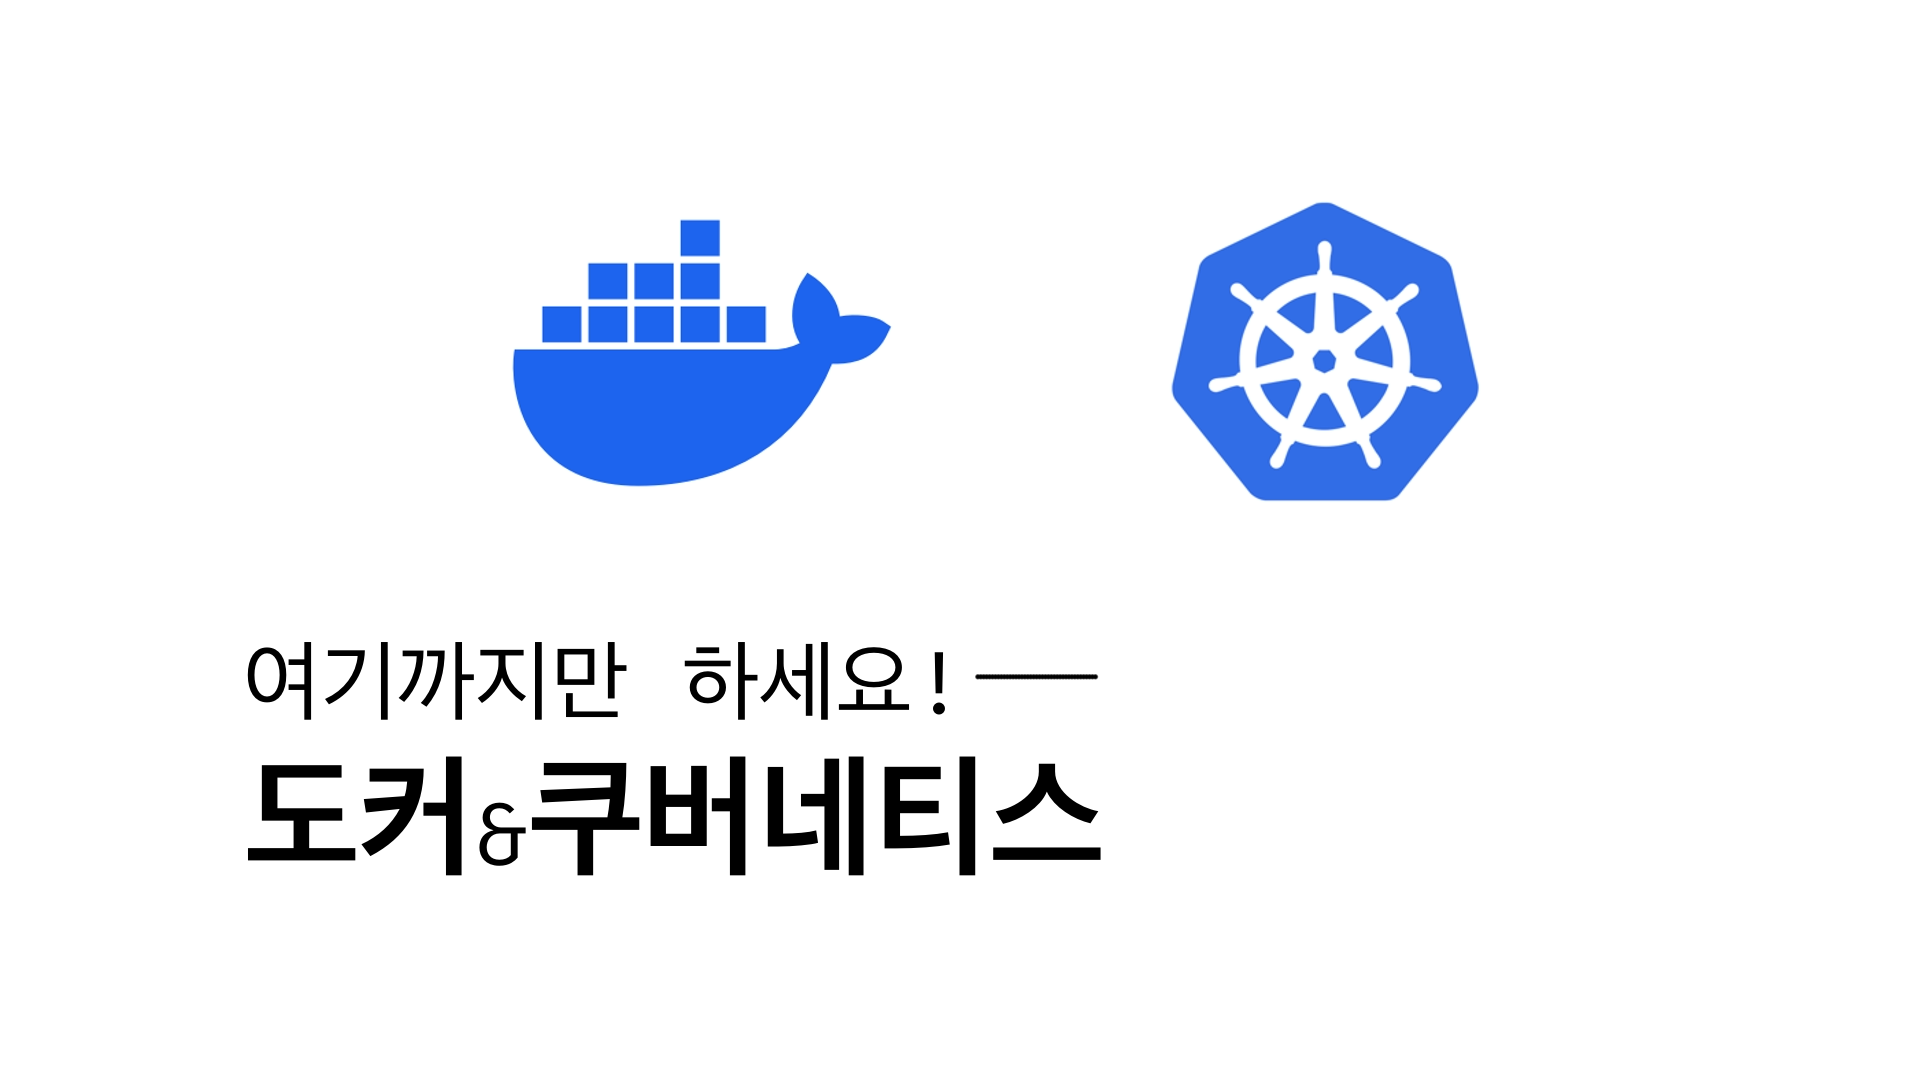
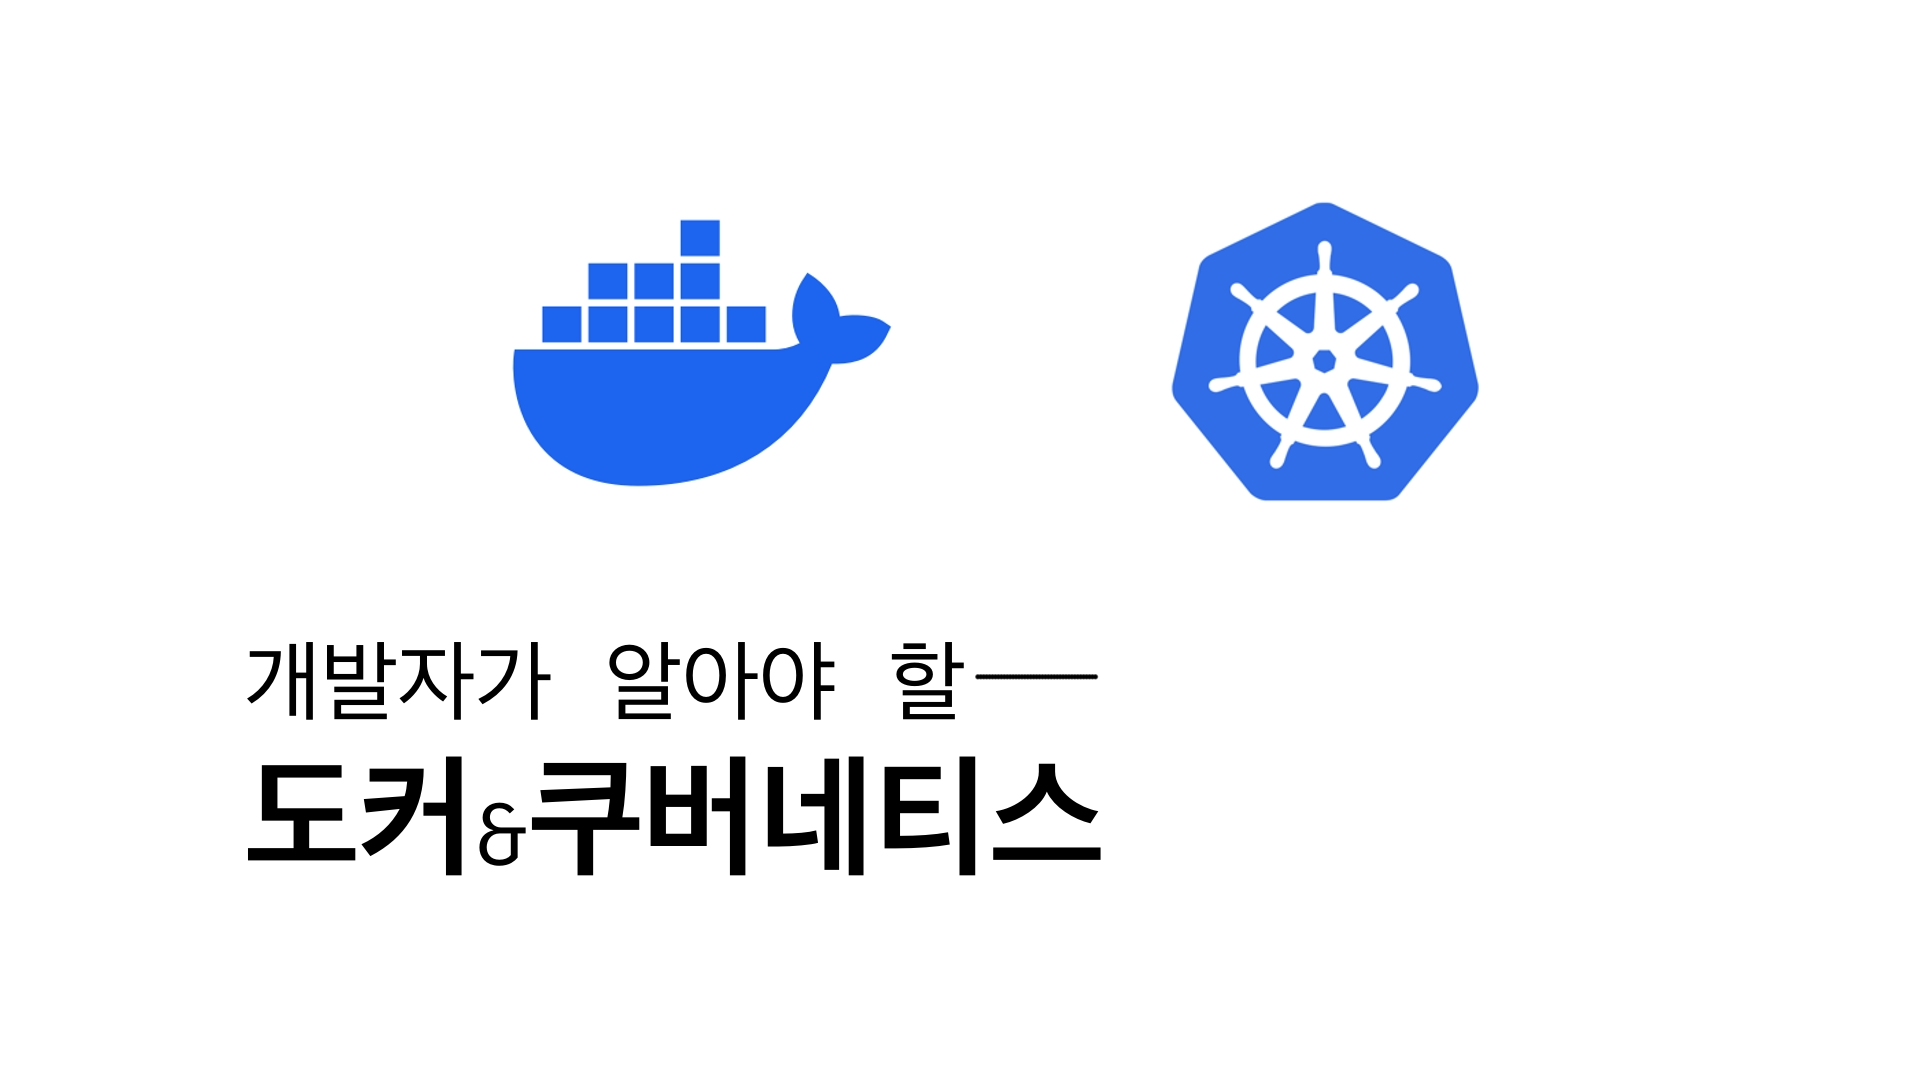
검토 적용

Changed region(s): [[0.125, 0.5806, 0.5, 0.6722]]

diff --git a/content/post/juunini-docker-k8s-for-developers/index.md b/content/post/juunini-docker-k8s-for-developers/index.md
@@ -1,5 +1,5 @@
 ---
-title: 실무에서 개발자는 여기까지만 알면 되는 도커 / 쿠버네티스
+title: 실무에서 개발자가 알아야 하는 도커/쿠버네티스 범위(기본)
 authors:
   - juunini
 date: 2024-01-16T09:20:11+09:00
@@ -16,11 +16,9 @@ tags:
 feature_image: "images/cover.webp"
 ---
 
-개발자의 본업은 개발입니다.  
-인프라에 신경쓰기보단 개발에 집중할 수 있어야 합니다.
+개발자의 본업은 개발이지만, 현실에선 인프라 관리로 인해 많은 고통을 받습니다.  
 
-그렇기에 개발자가 알야야 할  
-도커와 쿠버네티스에 대한 지식을 알려드리겠습니다.
+개발에 집중할 수 있도록 도커/쿠버네티스 사용에 필요한 기본 지식을 알려드리겠습니다.
 
 # Docker
 
@@ -50,13 +48,12 @@ feature_image: "images/cover.webp"
 
 # Kubernetes
 
-몰라도 됩니다.  
-쿠버네티스 공부하지 말고  
-**Dockerfile** 작성법을 익히세요.  
+컨테이너로 개발을 한다고 해서 쿠버네티스를 꼭 알아야 하는 것은 아닙니다.  
+쿠버네티스 보다 우선해야 하는 것은 Dockerfile 작성법입니다.
 
 # Dockerfile
 
-개발자 여러분이 Dockerfile에 대해 알아야 할건 5가지면 충분합니다.  
+개발자에게 필요한 Dockerfile의 최우선 사항은 다음 다섯 가지입니다.  
 
 - FROM \<이미지 이름\>
 - RUN \<쉘 명령어\>
@@ -88,31 +85,38 @@ https://github.com/docker/awesome-compose
 
 Dockerfile 작성법을 익혀서  
 애플리케이션을 컨테이너로 만들 수 있으면  
-어느 클라우드를 사용하든 서버리스 애플리케이션으로  
-배포가 가능합니다.
+어느 클라우드를 사용하든 컨테이너화 된 애플리케이션으로  
+배포가 가능합니다.  
+(예: lambda같은 서버리스나 ECS 같은 서비스)
 
 개발자는 여기까지만 할 줄 알아도 굉장히 훌륭합니다.  
 그리고 k8s로 넘어가도 Dockerfile이 아주 중요합니다.  
-~~근데 여기까지도 몰라도 잘 먹고 살더라~~
+(근데 여기까지도 몰라도 잘 먹고 살 수 있...)
 
-> k8s는 써야할 때 써야지  
-> 안써도 될 때 쓰면 비용이 굉장히 비쌉니다.
+> k8s는 필요하지 않은 상황에선 비용이 굉장히 비쌉니다.
+> 오케스트레이션이 필요한 상황이 아니라면
+> 기존 방식대로 서버를 배포하시는게 더 좋습니다.
 
 # 왜 여기까지만 알아도 되는가?
 
-기존의 아키텍쳐가 SRE를 보장할 수 없는 상태가 된다면  
-개발자는 피쳐 개발이나 버그 수정만 해도 매우 힘든 시기일겁니다.  
+기존의 아키텍쳐가 [SRE(사이트 신뢰성 엔지니어링)](https://www.redhat.com/ko/topics/devops/what-is-sre)를 보장할 수 없는 상태가 된다면  
+개발자는 기능 개발, 버그 수정만으로도 시간이 부족해 지속적인 고통을 받게 됩니다.
 
-그런 상황이 된다면  
-개발자는 개발에 집중할 수 있어야 합니다.
+많은 분들이 인프라 비용을 줄이기 위해 노력하지만,  
+그로 인해 개발자가 개발에 집중하지 못하고 소모하는 시간은 생각하지 못하고 있습니다.  
+개발자들이 개발에만 집중할 수 있는 환경이 주어졌을 때와 아닌 경우를 비교해보면  
+전자의 경우가 후자의 경우보다 효율적으로 비용을 쓰는 경우가 일반적입니다.
 
-k8s 세팅 때문에  
-워크로드는 뭘로 관리할 것인가?  
-클라우드에서 제공하는걸 쓸건가? Argo 같은걸 쓸건가?  
-이런 고민 하고있으면 안됩니다.
+개발자가 개발에 집중하지 못하고  
+쿠버네티스 셋팅 때문에 '워크로드 관리는 어떻게 할 것인가?',   
+'CSP에서 제공하는 PaaS 쿠버네티스를 사용할 것인가? 혹은 오픈소스를 활용할 것인가?'  
+등으로 고민하는 것 또한 엄청난 비용입니다.
 
-이런 플랫폼 엔지니어링은 하루이틀 해서 되는 쉬운 그런게 아닙니다.  
-담당자를 지정하고 지속적으로 구축 / 운영 / 개선을 해야합니다.
-
-담당할 사람이 없어서 곤란하시다면  
-저희 클라우드메이트에 연락주세요!
+많은 회사들이 인력 부족으로 늘 시간에 쫓겨 고통을 받습니다.  
+위와 같은 엔지니어링은 순식간에 가능한 것이 아니라, 담당자를 지정하고 지속적으로 관리(구축, 운영, 개선)해야 합니다.  
+ 
+개발자들이 인프라 비용 50만원, 100만원을 줄여보고자 고통을 받지만,  
+그로 인해 개발자가 한 달 중 절반 혹은 그 이상을 인프라 관리하느라 개발하지 못하는 인건비가 그를 상회하는 것은 간과합니다.  
+개발자들이 개발에만 집중할 수 있는 환경이 가장 비용 효율적입니다.
+ 
+담당자(플랫폼 엔지니어링)가 없거나 부족하여 힘드시다면 클라우드메이트에 연락주세요.
